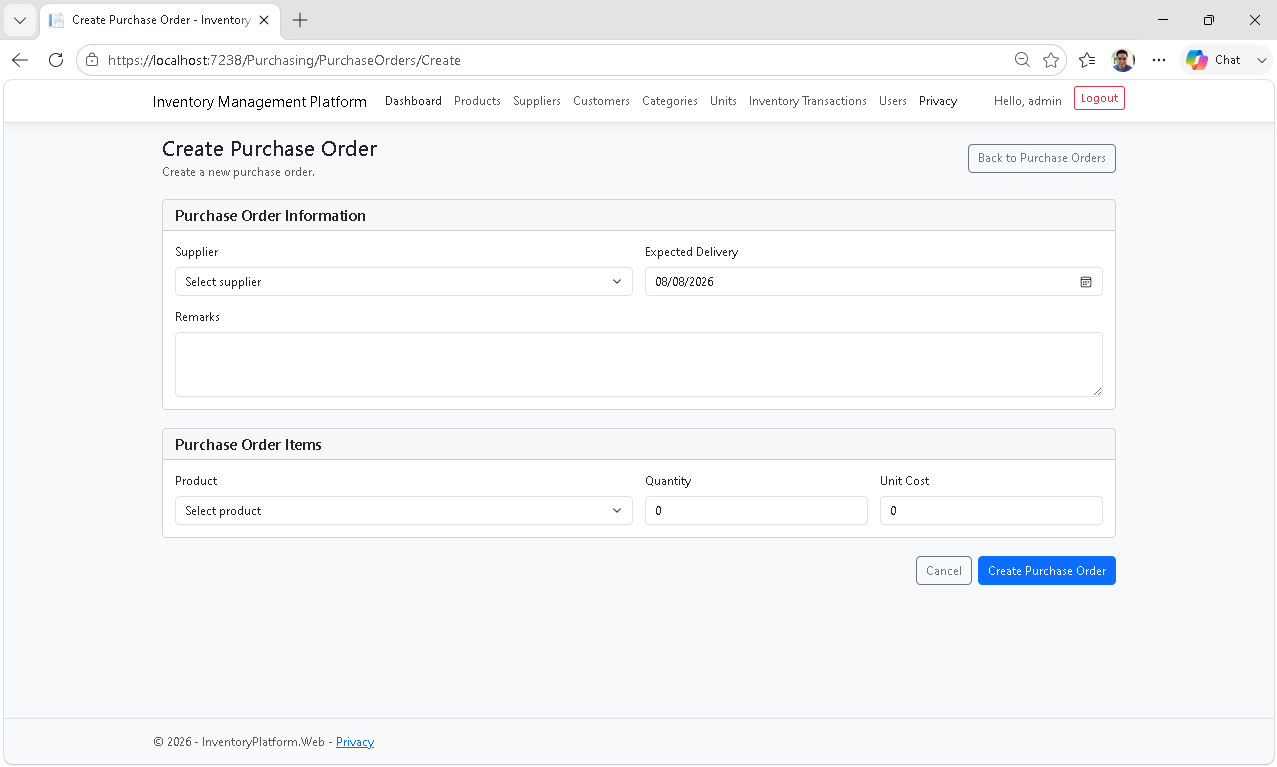
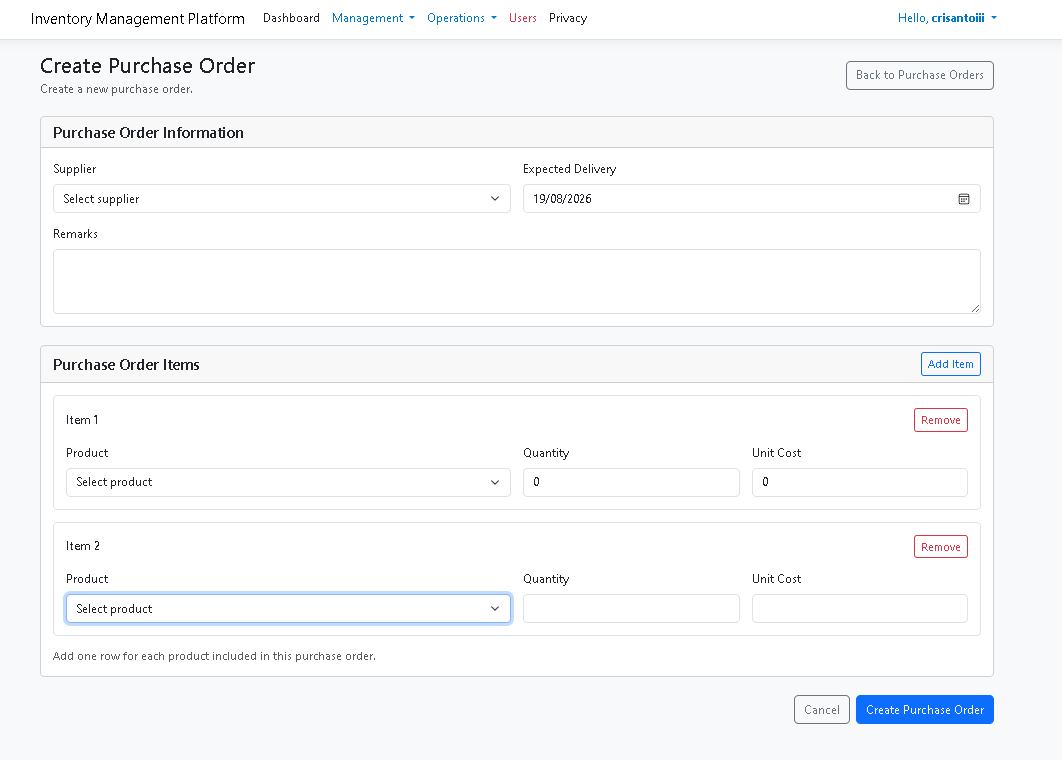
docs(purchasing): finalize p1 multiple item management

diff --git a/docs/retrospectives/SPRINT_08_PLANNING_BASELINE.md b/docs/retrospectives/SPRINT_08_PLANNING_BASELINE.md
@@ -3,7 +3,7 @@
 **Sprint:** Sprint 8 - Purchasing Enhancements  
 **Repository/Branch:** `feature/purchasing_enhancements`  
 **Baseline Date:** 2026-08-19  
-**Status:** Planning baseline - no Purchasing implementation started
+**Status:** P0 complete; P1 - Multiple Purchase Order Item Management complete and runtime/browser verified
 
 ---
 
@@ -344,9 +344,11 @@ No code changes are permitted during P0 unless required to establish the baselin
 
 Improve Purchase Order item management using the actual existing domain and presentation patterns.
 
+**Current implementation status:** Source implementation completed for multi-item Purchase Order creation in the Create UI. Runtime/browser verification completed successfully.
+
 Primary concern:
 
-- Support the required multi-item Purchase Order creation/editing behavior without bypassing the PurchaseOrder aggregate.
+- Support multi-item Purchase Order creation without bypassing the PurchaseOrder aggregate.
 
 ### P2 - Purchase Order Search
 
@@ -752,14 +754,109 @@ The next priority after Purchasing Enhancements is Dynamic Capability-Based Auth
 
 ---
 
-## 19. Initial Sprint 8 Gate
+## 19. P0/P1 Handoff State
 
-This planning baseline is a documentation-only milestone.
+P0 - Actual Purchasing Source/Documentation Baseline is complete. The actual source baseline was inspected and the documented Purchasing core workflow was reconciled against the implementation.
 
-No Purchasing implementation is authorized by this document.
+P1 - Multiple Purchase Order Item Management is also complete and runtime/browser verified. The Create Purchase Order workflow now supports multiple item rows while preserving the existing Application, Domain, Infrastructure, and persistence boundaries.
+
+No P2-P6 implementation has been started. Dynamic Capability-Based Authorization remains outside the current Purchasing Enhancements scope.
 
 The next task is:
 
-**P0 - Actual Purchasing Source/Documentation Baseline**
+**P2 - Purchase Order Search**
 
-P0 must begin by inspecting the actual `feature/purchasing_enhancements` repository/source and confirming the exact current state before any Purchasing code is changed.
+P2 must begin by reusing the actual Purchase Order listing/query architecture established by the existing source.
+
+
+## 20. P0 - Actual Purchasing Source Baseline
+
+P0 inspected the actual Sprint 8 source and documentation baseline. The existing Purchasing vertical slice was confirmed as implemented across Domain, Application, Infrastructure, and Web.
+
+Confirmed current Purchasing behavior:
+
+- Purchase Order creation
+- Purchase Order listing
+- Purchase Order details
+- Submit
+- Approve
+- Partial receiving
+- Final receiving
+- Completed state
+- Supplier and product validation
+- Purchase Order item domain validation
+- Existing repository and Unit of Work persistence
+- Existing EF Core Purchase Order and Purchase Order Item mappings
+
+Current Purchasing limitations confirmed by source:
+
+- Purchase Order Create previously rendered only one item row.
+- Purchase Order search is not implemented.
+- Purchase Order filtering is not implemented.
+- Purchase Order sorting is not implemented.
+- Purchase Order pagination is not implemented.
+- Purchase Order receiving does not currently synchronize inventory.
+- Dynamic Capability-Based Authorization is not part of Purchasing Enhancements.
+
+The supplied source snapshot did not contain `.git` metadata, so branch status, working-tree status, and commit history were not asserted from the ZIP.
+
+The source snapshot also could not be built in the inspection environment because the .NET CLI was unavailable. Runtime verification was subsequently completed against the updated application by the project owner.
+
+## 21. P1 - Multiple Purchase Order Item Management
+
+P1 is complete. The Purchase Order Create page now supports multiple item rows while preserving the existing Purchasing architecture and Application/Domain contracts.
+
+Implemented behavior:
+
+- Add multiple Purchase Order item rows.
+- Remove individual item rows.
+- Preserve indexed Product, Quantity, and Unit Cost bindings.
+- Preserve existing validation behavior.
+- Preserve the existing Create Purchase Order handler.
+- Preserve the existing `PurchaseOrder.AddItem()` domain operation.
+- Preserve the existing Purchase Order persistence model.
+- Preserve the existing Details page, Submit, Approve, and Receiving workflow.
+
+Runtime/browser verification was completed successfully. Multi-item Purchase Order creation and the existing downstream Purchasing workflow were confirmed working.
+
+No database migration was required for P1.
+No Dynamic Capability-Based Authorization changes were introduced.
+No P2-P6 implementation was started.
+
+### P1 Acceptance Result
+
+**Status: COMPLETE**
+
+P1 acceptance criteria were satisfied through source inspection and successful runtime/browser verification.
+
+The next task is **P2 - Purchase Order Search**.
+
+## 22. P1 Documentation Audit
+
+P1 documentation synchronization was reviewed against the actual source and verified runtime behavior.
+
+### Updated
+
+- `PROJECT_STATUS.md`
+- `ROADMAP.md`
+- `README.md`
+- `CHANGELOG.md`
+- `docs/FEATURES.md`
+- `docs/ENGINEERING_JOURNAL.md`
+- `docs/retrospectives/SPRINT_08_PLANNING_BASELINE.md`
+- `docs/retrospectives/SPRINT_04_APPLICATION.md` - historical cross-reference only
+
+### Reviewed and Preserved
+
+- `ARCHITECTURE.md` - no architectural change introduced by P1
+- `docs/ARCHITECTURE_REVIEW.md` - no new architecture boundary required
+- `docs/DESIGN_DECISIONS.md` - no new design decision required
+- `CODE_STYLE.md` - no project-wide style rule changed
+- `CONTRIBUTING.md` - no contribution workflow changed
+
+### Historical Sprint Documentation Preserved
+
+Sprint 1, Sprint 2, Sprint 3, Sprint 5, Sprint 6, and Sprint 7 retrospective documents were reviewed for P1 impact and left unchanged where their statements remain historically accurate. Sprint 7 reporting documentation remains the historical baseline and was not modified.
+
+Documentation status is therefore synchronized for P1 without rewriting historical records or introducing unsupported assumptions.
+

diff --git a/PROJECT_STATUS.md b/PROJECT_STATUS.md
@@ -28,7 +28,7 @@ Account Management
 
 **Current Version:** v1.4.0
 
-**Next Release:** Sprint 8 — To be determined through Sprint Planning
+**Next Release:** Sprint 8 — Purchasing Enhancements
 
 **Project Status:** Active Development
 
@@ -89,8 +89,8 @@ Verified:
 
 - **Completed Modules:** 10
 - **Architecture Status:** Validated
-- **Current Milestone:** Sprint 7 Additional Reporting — Complete
-- **Next Milestone:** Sprint 8 Planning
+- **Current Milestone:** Sprint 8 — P1 Multiple Purchase Order Item Management — Complete
+- **Next Milestone:** Sprint 8 — P2 Purchase Order Search
 
 ---
 
@@ -316,6 +316,8 @@ The architecture has been validated and is considered stable for future business
 - ✅ Received Quantity Display
 - ✅ Remaining Quantity Display
 - ✅ Calculated Purchase Order Total
+- ✅ Multiple Purchase Order Item Creation
+- ✅ Dynamic Item Add/Remove in Create UI
 - ✅ Client-side Validation
 - ✅ Domain Validation
 - ✅ Success Messages
@@ -539,30 +541,22 @@ Final verification covered normal application regression, reporting workflows, e
 
 # Current Focus
 
-Sprint 7 Additional Reporting is complete, verified, and documented.
+Sprint 8 Purchasing Enhancements is now active. P0 - Actual Purchasing Source/Documentation Baseline and P1 - Multiple Purchase Order Item Management are complete.
 
-Completed:
+Completed in Sprint 8:
 
-- Inventory Valuation
-- Purchase History
-- Supplier Purchase Analysis
-- Stock Movement
-- Low Stock Report
-- Inventory Movement Report
-- Product Reports
-- Excel Export
-- PDF Export
-- Final project-wide verification
+- P0 - Actual Purchasing Source/Documentation Baseline
+- P1 - Multiple Purchase Order Item Management
 
-Verification included empty-database behavior, explicit query failure and recovery, authorization regression, and final solution build verification.
+P1 was runtime/browser verified successfully. The Purchase Order Create workflow now supports multiple item rows while preserving the existing Purchasing architecture and downstream workflow.
 
 # Next Milestone
 
-## Sprint 8 Planning
+## P2 - Purchase Order Search
 
-The next development scope will be established through the Sprint Planning process.
+The next development task is Purchase Order Search. P2 must reuse the existing Purchase Order listing/query architecture and must not introduce unrelated Purchasing or authorization scope.
 
-Sprint 7 Additional Reporting is complete and no Sprint 7 implementation work remains.
+Sprint 7 Additional Reporting remains complete and unchanged.
 
 The following reporting capabilities are already complete:
 
@@ -590,7 +584,6 @@ Business Modules
 
 Purchasing
 
-- Multiple Purchase Order item management in the Create UI
 - Purchase Order search, filtering, sorting, and pagination
 - Inventory synchronization during Purchase Order receiving
 
@@ -717,21 +710,16 @@ The architecture has now been validated through:
 
 ## Current Focus
 
-### Sprint 7 — Additional Reporting
+### Sprint 8 — Purchasing Enhancements
 
-Product Reports, Excel Export, and PDF Export are complete and browser-verified.
+P0 source/documentation baseline is complete. P1 - Multiple Purchase Order Item Management is implemented and runtime/browser verified.
 
-Completed:
+Completed in Sprint 8 so far:
 
-- Inventory Valuation
-- Purchase History
-- Supplier Purchase Analysis
-- Stock Movement
-- Low Stock Report
-- Inventory Movement Report
-- Product Reports
-- Excel Export
-- PDF Export
+- P0 - Actual Purchasing Source/Documentation Baseline
+- P1 - Multiple Purchase Order Item Management
+
+P1 verification confirmed that Purchase Order creation supports multiple item rows while preserving the existing Application, Domain, persistence, and downstream Purchasing workflow.
 
 ### Final Project-wide Verification
 

diff --git a/docs/ENGINEERING_JOURNAL.md b/docs/ENGINEERING_JOURNAL.md
@@ -2675,3 +2675,34 @@ Sprint 7 Additional Reporting has completed final project-wide verification succ
 No in-scope implementation defects were discovered during final verification.
 
 The existing Reporting architecture remains unchanged, with export generation isolated in the Web layer and existing report queries and DTOs reused as the source of report data.
+
+
+---
+
+# Sprint 8 - P1 Multiple Purchase Order Item Management
+
+**Date:** 2026-08-19
+
+## Objective
+
+Extend the existing Purchase Order Create workflow to support multiple Purchase Order items without redesigning the established Purchasing architecture.
+
+## Implementation
+
+The Create Purchase Order Razor Page was updated to manage a dynamic collection of item rows. Users can add and remove item rows while retaining the existing Product, Quantity, and Unit Cost model binding. The existing Application handler, PurchaseOrder aggregate, repository, EF Core mappings, and database schema were preserved.
+
+The implementation intentionally did not introduce Purchase Order search, filtering, sorting, pagination, inventory synchronization, or Dynamic Capability-Based Authorization. Those remain separate Sprint 8 tasks.
+
+## Verification
+
+Source inspection confirmed the multi-item collection is passed through the existing Create Purchase Order flow. Runtime/browser verification was completed successfully and confirmed that multiple Purchase Order items can be created and the existing downstream Purchasing workflow continues to function.
+
+## Result
+
+P1 - Multiple Purchase Order Item Management is complete. No database migration was required.
+
+Next task: **P2 - Purchase Order Search**.
+
+### P1 Documentation Synchronization
+
+P1 documentation was reconciled after runtime verification. Current-state documents were updated to record multi-item Purchase Order creation, while historical Sprint documentation was preserved and cross-referenced where necessary.

diff --git a/README.md b/README.md
@@ -58,7 +58,7 @@ The focus is not only on implementing business features but also on applying pro
 - ✅ Authentication & Authorization
 - ✅ User Management
 - ✅ Account Management
-- 🟨 Purchasing (Core Workflow Complete)
+- 🟨 Purchasing (Core Workflow Complete + Sprint 8 P1 Multi-Item Creation)
 - ✅ Reporting (Sprint 7 Additional Reporting Complete and Verified)
 
 ## Latest Release
@@ -340,6 +340,8 @@ The long-term goal is to evolve this project into a complete inventory managemen
 
 - ✅ Purchase Order Listing
 - ✅ Purchase Order Creation
+- ✅ Multiple Purchase Order Item Creation
+- ✅ Dynamic Item Add/Remove in Create UI
 - ✅ Purchase Order Details
 - ✅ Supplier Selection
 - ✅ Product Selection
@@ -813,7 +815,7 @@ Development Tools
 | Authentication & Authorization | ✅ Complete |
 | User Management | ✅ Complete |
 | Account Management | ✅ Complete |
-| Purchasing | 🟨 Core Workflow Complete |
+| Purchasing | 🟨 Core Workflow + Sprint 8 P1 Complete |
 | Reporting | ✅ Sprint 7 Additional Reporting Complete and Verified |
 
 ---

diff --git a/CHANGELOG.md b/CHANGELOG.md
@@ -41,6 +41,19 @@ Sprint 7 Additional Reporting is complete and has passed final project-wide veri
 
 No Dynamic Capability-Based Authorization implementation was introduced during Sprint 7.
 
+### Sprint 8 — Purchasing Enhancements
+
+#### P1 — Multiple Purchase Order Item Management
+
+- Extended the Purchase Order Create UI to support multiple item rows.
+- Added dynamic item-row add/remove behavior.
+- Preserved the existing Product, Quantity, and Unit Cost model binding.
+- Preserved the existing Application handler and `PurchaseOrder.AddItem()` domain operation.
+- Preserved the existing Purchase Order persistence model; no database migration was required.
+- Runtime/browser verification confirmed multi-item Purchase Order creation and the existing downstream Purchasing workflow.
+
+P2 - Purchase Order Search remains the next Sprint 8 task.
+
 ---
 
 ## [v1.3.0] - 2026-08-13

diff --git a/docs/FEATURES.md b/docs/FEATURES.md
@@ -39,7 +39,7 @@ Outcome:
 - ✅ No structural redesign required
 - ✅ Ready for workflow-driven business modules
 
-The Purchasing Presentation Layer is now complete and has been verified through an end-to-end browser workflow using persisted database records.
+The Purchasing Presentation Layer is now complete and has been verified through an end-to-end browser workflow using persisted database records. Sprint 8 P1 extended the Purchase Order Create workflow to support multiple item rows and was runtime/browser verified.
 
 The first Reporting vertical slice has also been implemented through Inventory Valuation and verified using actual persisted database records.
 
@@ -922,7 +922,6 @@ Engineering practices include:
 
 Remaining work:
 
-- Multiple Purchase Order Item Management
 - Purchase Order Search
 - Purchase Order Filtering
 - Purchase Order Sorting

diff --git a/ROADMAP.md b/ROADMAP.md
@@ -55,7 +55,7 @@ Completed:
 - Excel Export
 - PDF Export
 
-The next development milestone will be selected through the next Sprint Planning process.
+Sprint 8 Purchasing Enhancements is now active. P0 and P1 are complete, and P2 - Purchase Order Search is the next task.
 
 ---
 
@@ -166,7 +166,6 @@ Remaining:
 
 - Inventory Integration
 - Supplier Purchase History
-- Multiple Purchase Order Item Management
 - Purchase Order Search
 - Purchase Order Filtering
 - Purchase Order Sorting
@@ -380,7 +379,8 @@ Future enhancements may include:
 | v1.2.0 | Reporting — Inventory Valuation ✅ |
 | v1.3.0 | Account Management ✅ |
 | v1.4.0 | Additional Reporting & Exports — Ready for Release |
-| v1.5.0 | Sales Module ⏳ |
+| v1.5.0 | Sprint 8 Purchasing Enhancements ⏳ |
+| v1.6.0 | Sales Module ⏳ |
 | v2.0.0 | REST API & Blazor ⏳ |
 
 ---

diff --git a/docs/retrospectives/SPRINT_04_APPLICATION.md b/docs/retrospectives/SPRINT_04_APPLICATION.md
@@ -431,9 +431,9 @@ Inventory synchronization should be addressed only after the required business b
 
 ### Multiple Purchase Order Items in Create UI
 
-The Application contract supports multiple Purchase Order items, while the current Presentation implementation starts with a single item row.
+The Application contract supports multiple Purchase Order items, while the Presentation implementation at the time of Sprint 4 used a single item row.
 
-Dynamic item management can be added as a future Presentation enhancement.
+Dynamic item management was subsequently implemented in Sprint 8 P1 - Multiple Purchase Order Item Management. The Sprint 4 limitation is retained here as historical context and is no longer a current-state limitation.
 
 ---
 
